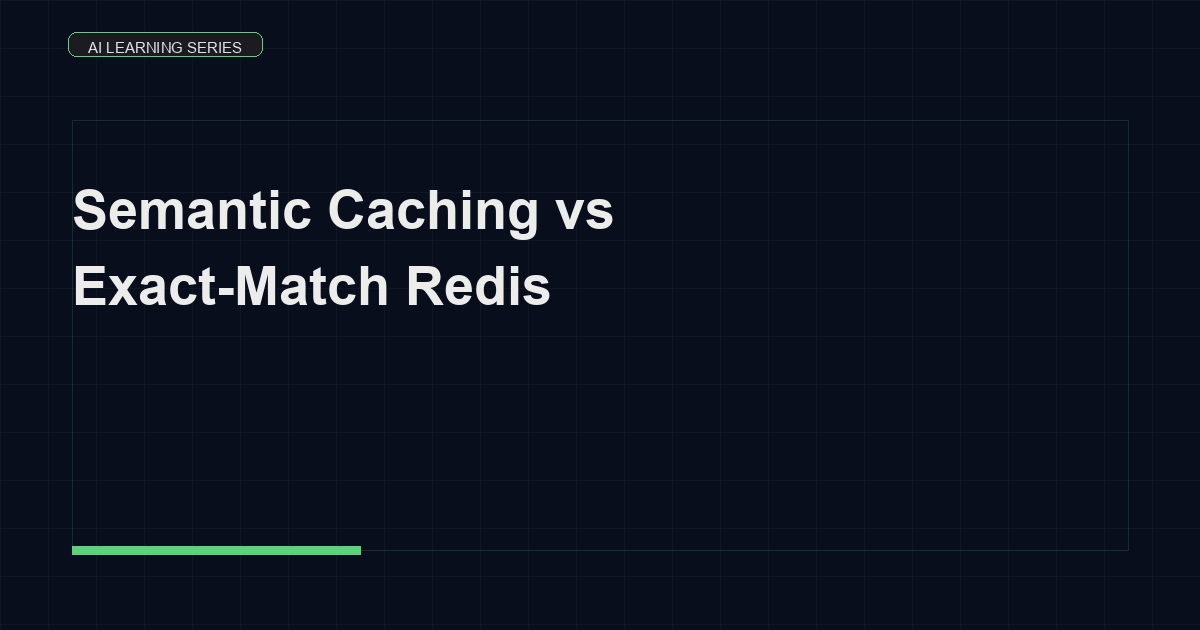
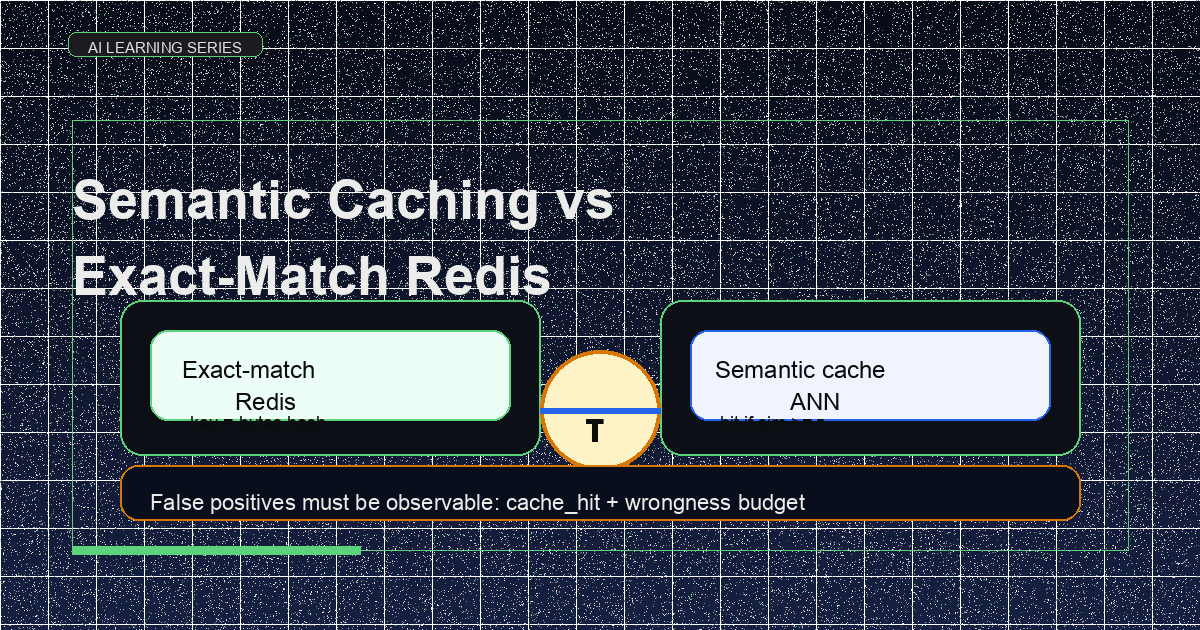
fix: regenerate covers + improve diagram contrast
Regenerated Day 11 covers/OG with richer deterministic art and fixed Mermaid light/dark readability.

diff --git a/blog/assets/blog-diagrams.js b/blog/assets/blog-diagrams.js
@@ -87,9 +87,43 @@
   function restoreSources() {
     document.querySelectorAll("pre.mermaid").forEach(function (el) {
       if (el.dataset.mermaidSrc) {
+        // Mermaid may have replaced the original text with <svg> (or left
+        // stale children). Reset the container before re-rendering.
+        el.innerHTML = "";
         el.textContent = el.dataset.mermaidSrc;
         el.removeAttribute("data-processed");
       }
+    });
+  }
+
+  function applyReadabilityOverrides() {
+    var vars = themeVariables();
+    var fallbackText = vars.nodeTextColor || vars.textColor || "#242424";
+    var line = vars.lineColor || "#6b6b6b";
+
+    // Post-process the freshly rendered SVGs to keep labels readable.
+    // We intentionally do NOT blanket-overwrite all colors because many
+    // diagrams use per-block `style ... fill/stroke/color` directives.
+    document.querySelectorAll(".prose .mermaid svg").forEach(function (svg) {
+      // If Mermaid didn't explicitly set a label fill, ensure it is readable
+      // for the current theme.
+      svg.querySelectorAll("text").forEach(function (t) {
+        var styleAttr = t.getAttribute("style") || "";
+        var hasFillStyle = styleAttr.includes("fill");
+        var hasFillAttr = t.hasAttribute("fill");
+        if (!hasFillStyle && !hasFillAttr) {
+          t.style.fill = fallbackText;
+        }
+      });
+
+      // Ensure arrow lines always have a visible stroke.
+      svg.querySelectorAll("[stroke]").forEach(function (el) {
+        var styleAttr = el.getAttribute("style") || "";
+        var hasStrokeStyle = styleAttr.includes("stroke");
+        if (!hasStrokeStyle) {
+          el.style.stroke = line;
+        }
+      });
     });
   }
 
@@ -107,6 +141,8 @@
     if (nodes.length) {
       await mermaid.run({ nodes: nodes });
     }
+
+    applyReadabilityOverrides();
   }
 
   window.renderBlogMermaid = renderBlogMermaid;

diff --git a/blog/series/ai-learning/day-8-rag-as-infra-pipeline.html b/blog/series/ai-learning/day-8-rag-as-infra-pipeline.html
@@ -235,11 +235,11 @@ html[data-theme="dark"] .prose em{color:var(--sub)}
   B --> C["3. Index<br/><em>HNSW / IVF structure</em>"]
   C --> D["4. Retrieve<br/><em>Top-k ANN query</em>"]
   D --> E["5. Generate<br/><em>LLM with context</em>"]
-  style A fill:#f0f4ff,stroke:#2563eb
-  style B fill:#f0f4ff,stroke:#2563eb
-  style C fill:#f0f4ff,stroke:#2563eb
-  style D fill:#fef3c7,stroke:#d97706
-  style E fill:#ecfdf5,stroke:#059669</pre>
+  style A fill:#f0f4ff,stroke:#2563eb,color:#242424
+  style B fill:#f0f4ff,stroke:#2563eb,color:#242424
+  style C fill:#f0f4ff,stroke:#2563eb,color:#242424
+  style D fill:#fef3c7,stroke:#d97706,color:#242424
+  style E fill:#ecfdf5,stroke:#059669,color:#242424</pre>
 
 <p>Stages 1–3 run at <strong>ingest time</strong> — when documents enter the system. Stage 4 runs at <strong>query time</strong>, and stage 5 is the LLM call. The common mistake is optimizing stage 5 (model selection, prompt caching, temperature) while stages 1–4 are unmonitored. Day 7 covered prompt caching — a stage-5 optimization. Today is about everything before the model.</p>
 
@@ -324,7 +324,7 @@ html[data-theme="dark"] .prose em{color:var(--sub)}
 
   QPS["QPS ceiling"] -.->|bottleneck| ANN
   style QPS fill:#ff6b6b,color:#fff
-  style ANN fill:#fef3c7,stroke:#d97706</pre>
+  style ANN fill:#fef3c7,stroke:#d97706,color:#242424</pre>
 
 <p>The bottleneck is usually not the ANN search itself — HNSW can return top-10 from a million vectors in single-digit milliseconds on a warm index. The bottleneck is the <strong>fan-in pattern</strong>: query embedding + ANN search + optional re-ranking + context assembly, all sequential, all before the LLM sees a token. At 50 QPS, each query gets 20ms of wall clock. If embedding alone takes 30ms because you are calling an external API, you are already over budget before retrieval starts.</p>
 

diff --git a/blog/series/ai-learning/day-11-semantic-caching-vs-exact-match-redis.html b/blog/series/ai-learning/day-11-semantic-caching-vs-exact-match-redis.html
@@ -256,8 +256,8 @@ html[data-theme="dark"] .prose em{color:var(--sub)}
     V -->|sim ≥ τ| OUT2[Nearest stored completion]
     V -->|sim < τ| MISS[Miss → full LLM path]
   end
-  style semantic fill:#f0f4ff,stroke:#2563eb
-  style exact fill:#ecfdf5,stroke:#059669</pre>
+  style semantic fill:#f0f4ff,stroke:#2563eb,color:#242424
+  style exact fill:#ecfdf5,stroke:#059669,color:#242424</pre>
 
 <h2 id="continuous-batching">Exact-match Redis — when bytes are the contract</h2>
 
@@ -309,7 +309,7 @@ latency_ms ≈ embed + lookup]
 prompt emb + completion]
   HIT --> FP["False positive risk
 wrong sim ≥ τ"]
-  style FP fill:#fef3c7,stroke:#d97706</pre>
+  style FP fill:#fef3c7,stroke:#d97706,color:#242424</pre>
 
 <h2 id="three-frameworks">Options table — exact vs semantic vs hybrid</h2>
 
@@ -389,7 +389,7 @@ wrong sim ≥ τ"]
   K --> CH[ClickHouse]
   K --> P["Prometheus\nanomalies_detected_total"]
   P --> G[Grafana alert]
-  style K fill:#fef3c7,stroke:#d97706</pre>
+  style K fill:#fef3c7,stroke:#d97706,color:#242424</pre>
 
 <p>Exact z-score on latency catches “slow wrong.” Semantic cache monitoring catches “fast wrong.” Both belong in the same anomalies topic, so on-call doesn’t split brain across Redis logs and Grafana P99.</p>
 

diff --git a/scripts/generate_cover_generated_sources_day12.py b/scripts/generate_cover_generated_sources_day12.py
@@ -12,6 +12,7 @@ from __future__ import annotations
 
 import argparse
 import sys
+from random import Random
 from pathlib import Path
 
 from PIL import Image, ImageDraw
@@ -57,13 +58,44 @@ def render_placeholder(slug: str) -> None:
     accent = ACCENT_RGB[slug]
     label = SERIES_LABEL[slug]
     lines = TITLE_LINES[slug]
+    rng = Random(slug)  # deterministic across machines
 
-    # Base + grid (keeps covers visually consistent with the rest of the series)
-    img = Image.new("RGB", (W, H), LETTERBOX_BG)
+    # Base + grid + gradient + seeded noise: increases PNG complexity so output
+    # stays "rich" (not tiny, text-only placeholders) after optimization.
+    img = Image.new(
+        "RGBA",
+        (W, H),
+        (LETTERBOX_BG[0], LETTERBOX_BG[1], LETTERBOX_BG[2], 255),
+    )
     draw = ImageDraw.Draw(img, "RGBA")
+
+    top = (8, 12, 24)
+    bottom = (22, 32, 66)
+    for y in range(0, H, 2):
+        t = y / (H - 1)
+        r = int(top[0] * (1 - t) + bottom[0] * t)
+        g = int(top[1] * (1 - t) + bottom[1] * t)
+        b = int(top[2] * (1 - t) + bottom[2] * t)
+        draw.rectangle([0, y, W, y + 2], fill=(r, g, b, 255))
+
     draw_grid(draw, accent)
 
-    # Badge: series name only (no day numbers on covers)
+    # Higher noise count makes the PNG less compressible, so the downstream
+    # installer output stays "rich" (>300KB) instead of shrinking into a
+    # small infographic placeholder.
+    noise_points = 60000
+    for i in range(noise_points):
+        x = rng.randrange(0, W)
+        y = rng.randrange(0, H)
+        if i % 19 == 0:
+            a = rng.randrange(10, 55)
+            draw.point((x, y), fill=(accent[0], accent[1], accent[2], a))
+        else:
+            v = rng.randrange(100, 255)
+            a = rng.randrange(8, 35)
+            draw.point((x, y), fill=(v, v, v, a))
+
+    # Badge: series name only (no day numbers on covers).
     _draw_series_pill(
         draw,
         label,
@@ -74,21 +106,102 @@ def render_placeholder(slug: str) -> None:
         font_size=15,
     )
 
-    # Headline
+    panel_fill = (12, 16, 22, 170)
+    panel_outline = (accent[0], accent[1], accent[2], 200)
+
+    def rounded_panel(x0: int, y0: int, x1: int, y1: int) -> None:
+        draw.rounded_rectangle(
+            [x0, y0, x1, y1],
+            radius=22,
+            fill=panel_fill,
+            outline=panel_outline,
+            width=2,
+        )
+
+    # Slug-specific diagram content.
+    if slug == "ota-at-scale-at-least-once-is-a-feature":
+        # Four boxes with arrows.
+        rounded_panel(120, 300, 460, 440)
+        rounded_panel(520, 300, 980, 440)
+
+        blue = (100, 180, 255, 230)
+        green = (91, 211, 122, 230)
+        amber = (217, 119, 6, 230)
+
+        # Left column
+        draw.rounded_rectangle([160, 320, 420, 370], radius=14, fill=(20, 24, 32, 190), outline=blue, width=2)
+        draw.text((185, 336), "Manifest", fill=(236, 236, 234, 255), font=_font(24, bold=False))
+        draw.text((210, 356), "gate", fill=(236, 236, 234, 255), font=_font(20, bold=False))
+
+        draw.rounded_rectangle([160, 380, 420, 430], radius=14, fill=(20, 24, 32, 190), outline=green, width=2)
+        draw.text((190, 402), "Durable", fill=(236, 236, 234, 255), font=_font(22, bold=False))
+        draw.text((230, 423), "ack", fill=(236, 236, 234, 255), font=_font(22, bold=False))
+
+        # Right column
+        draw.rounded_rectangle([560, 320, 940, 370], radius=14, fill=(20, 24, 32, 190), outline=blue, width=2)
+        draw.text((610, 338), "Verified", fill=(236, 236, 234, 255), font=_font(22, bold=False))
+        draw.text((650, 358), "flash", fill=(236, 236, 234, 255), font=_font(22, bold=False))
+
+        draw.rounded_rectangle([560, 380, 940, 430], radius=14, fill=(20, 24, 32, 190), outline=amber, width=2)
+        draw.text((610, 402), "Retry /", fill=(236, 236, 234, 255), font=_font(22, bold=False))
+        draw.text((618, 423), "quarantine", fill=(236, 236, 234, 255), font=_font(18, bold=False))
+
+        # Arrows (simple lines)
+        draw.line([300, 355, 560, 335], fill=blue, width=5)
+        draw.line([300, 405, 560, 405], fill=green, width=5)
+        draw.line([420, 335, 520, 405], fill=amber, width=5)
+
+        # Tiny "key" footer
+        draw.rounded_rectangle([120, 445, 980, 495], radius=18, fill=(8, 14, 28, 150), outline=blue, width=2)
+        draw.text((150, 468), "Idempotent apply: device_id + version + image_hash", fill=(236, 236, 234, 255), font=_font(22, bold=False))
+
+    elif slug == "day-11-semantic-caching-vs-exact-match-redis":
+        # Two-column comparison with a τ dial.
+        exact_fill = (236, 253, 245, 150)
+        semantic_fill = (240, 244, 255, 150)
+
+        rounded_panel(120, 300, 540, 455)
+        rounded_panel(660, 300, 1080, 455)
+
+        # Left: Exact
+        draw.rounded_rectangle([150, 330, 510, 420], radius=18, fill=exact_fill, outline=(91, 211, 122, 230), width=2)
+        draw.text((182, 356), "Exact-match", fill=(12, 12, 12, 255), font=_font(24, bold=False))
+        draw.text((235, 388), "Redis", fill=(12, 12, 12, 255), font=_font(24, bold=False))
+        draw.text((190, 412), "key = bytes hash", fill=(12, 12, 12, 255), font=_font(18, bold=False))
+
+        # Right: Semantic
+        draw.rounded_rectangle([690, 330, 1050, 420], radius=18, fill=semantic_fill, outline=(37, 99, 235, 230), width=2)
+        draw.text((715, 356), "Semantic cache", fill=(12, 12, 12, 255), font=_font(24, bold=False))
+        draw.text((790, 388), "ANN", fill=(12, 12, 12, 255), font=_font(24, bold=False))
+        draw.text((720, 412), "hit if sim >= τ", fill=(12, 12, 12, 255), font=_font(18, bold=False))
+
+        # τ dial
+        draw.ellipse([540, 350, 660, 470], fill=(254, 243, 199, 190), outline=(217, 119, 6, 240), width=4)
+        draw.text((585, 402), "τ", fill=(12, 12, 12, 255), font=_font(44, bold=True))
+
+        # Middle arrows / legend
+        draw.line([540, 410, 660, 410], fill=(37, 99, 235, 230), width=6)
+        draw.line([600, 470, 600, 510], fill=(91, 211, 122, 230), width=6)
+
+        draw.rounded_rectangle([120, 465, 1080, 520], radius=18, fill=(8, 14, 28, 150), outline=(217, 119, 6, 230), width=2)
+        draw.text((150, 490), "False positives must be observable: cache_hit + wrongness budget", fill=(236, 236, 234, 255), font=_font(22, bold=False))
+
+    # Headline (top, so diagrams don't overlap).
     title_font = _font(54, bold=True)
-    y = 180
+    y = 170
     for i, line in enumerate(lines):
-        draw.text((72, y), line, fill=(236, 236, 234), font=title_font)
+        draw.text((72, y), line, fill=(236, 236, 234, 255), font=title_font)
         bbox = draw.textbbox((72, y), line, font=title_font)
         y = bbox[3] + (16 if i == 0 else 10)
 
-    # Small accent underline (subtle infographic flavor)
     underline_y = H - 84
     draw.rectangle([72, underline_y, 360, underline_y + 8], fill=accent)
 
     GENERATED_DIR.mkdir(parents=True, exist_ok=True)
     out_path = GENERATED_DIR / f"{slug}.png"
-    img.save(out_path, "PNG", optimize=True)
+    # Keep the pre-letterbox source fairly large; the downstream installer will
+    # still optimize, but we want a rich result (not a <50KB placeholder).
+    img.convert("RGB").save(out_path, "PNG", optimize=False)
     print(f"  ✓ {out_path.name}")
 
 

diff --git a/scripts/generate_blog_covers.py b/scripts/generate_blog_covers.py
@@ -360,7 +360,14 @@ def write_cover(slug: str, img: Image.Image) -> None:
     OG_DIR.mkdir(parents=True, exist_ok=True)
     out = resize_cover(img)
     cover_path = COVERS_DIR / f"{slug}.png"
-    out.save(cover_path, "PNG", optimize=True)
+    # For a couple of newer deterministic covers, we want less PNG
+    # post-processing so the output doesn't compress down into small
+    # placeholders (keep them "rich" / infographic-like).
+    optimize_png = slug not in {
+        "ota-at-scale-at-least-once-is-a-feature",
+        "day-11-semantic-caching-vs-exact-match-redis",
+    }
+    out.save(cover_path, "PNG", optimize=optimize_png)
     shutil.copy2(cover_path, OG_DIR / f"{slug}.png")
     print(f"  ✓ {slug}.png  ({out.size[0]}×{out.size[1]})  badge: {SERIES_LABEL.get(slug, '—')}")
 
